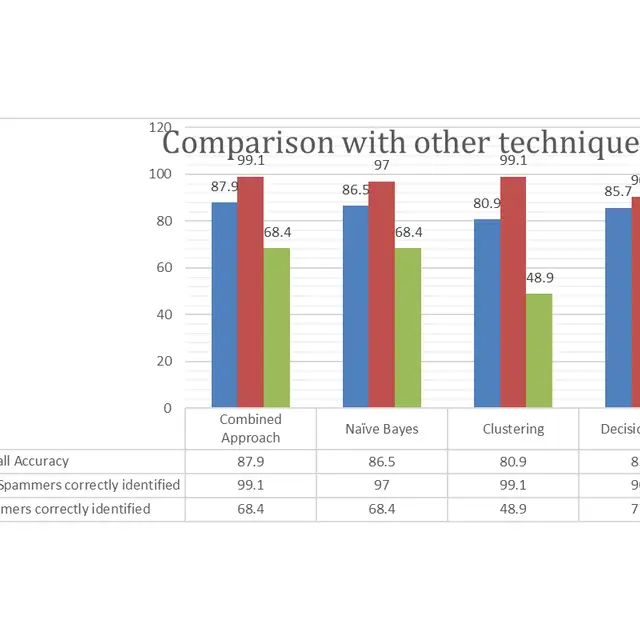
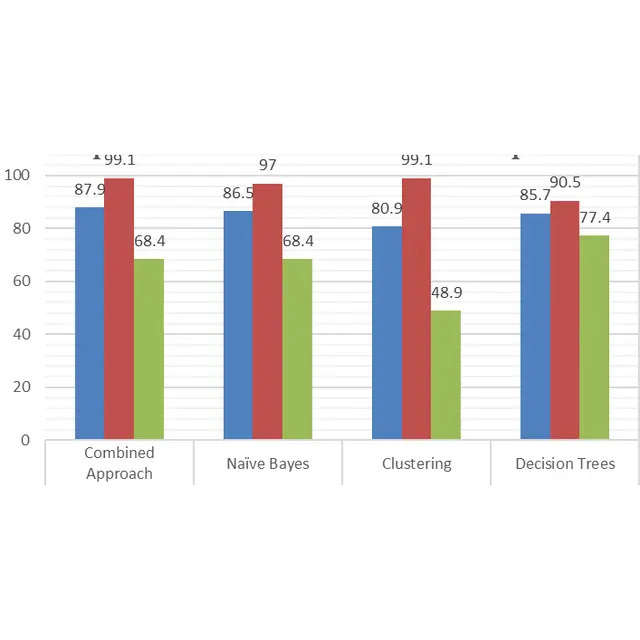
Tighter project card thumbnails: key figure only, not full PDF page crops

diff --git a/scripts/optimize-images.py b/scripts/optimize-images.py
@@ -36,7 +36,10 @@ def write_cover_variants(cover: Path) -> list[str]:
     done = []
     full = cover.with_suffix(".webp")
     card = cover.with_name(cover.stem + "-card.webp")
-    if stale(cover, full) or stale(cover, card):
+    # Optional card-source.png: a tight crop of the key figure, used only for the square project card
+    card_src = cover.with_name("card-source.png")
+    card_from = card_src if card_src.exists() else cover
+    if stale(cover, full) or stale(card_from, card):
         im = load_rgb(cover)
         if stale(cover, full):
             f = im.copy()
@@ -44,8 +47,8 @@ def write_cover_variants(cover: Path) -> list[str]:
                 f = f.resize((1400, round(f.height * 1400 / f.width)), Image.LANCZOS)
             f.save(full, "WEBP", quality=82, method=6)
             done.append(str(full.relative_to(ROOT)))
-        if stale(cover, card):
-            ImageOps.fit(im, (640, 640), Image.LANCZOS).save(card, "WEBP", quality=70, method=6)
+        if stale(card_from, card):
+            ImageOps.fit(load_rgb(card_from), (640, 640), Image.LANCZOS).save(card, "WEBP", quality=70, method=6)
             done.append(str(card.relative_to(ROOT)))
     return done
 
